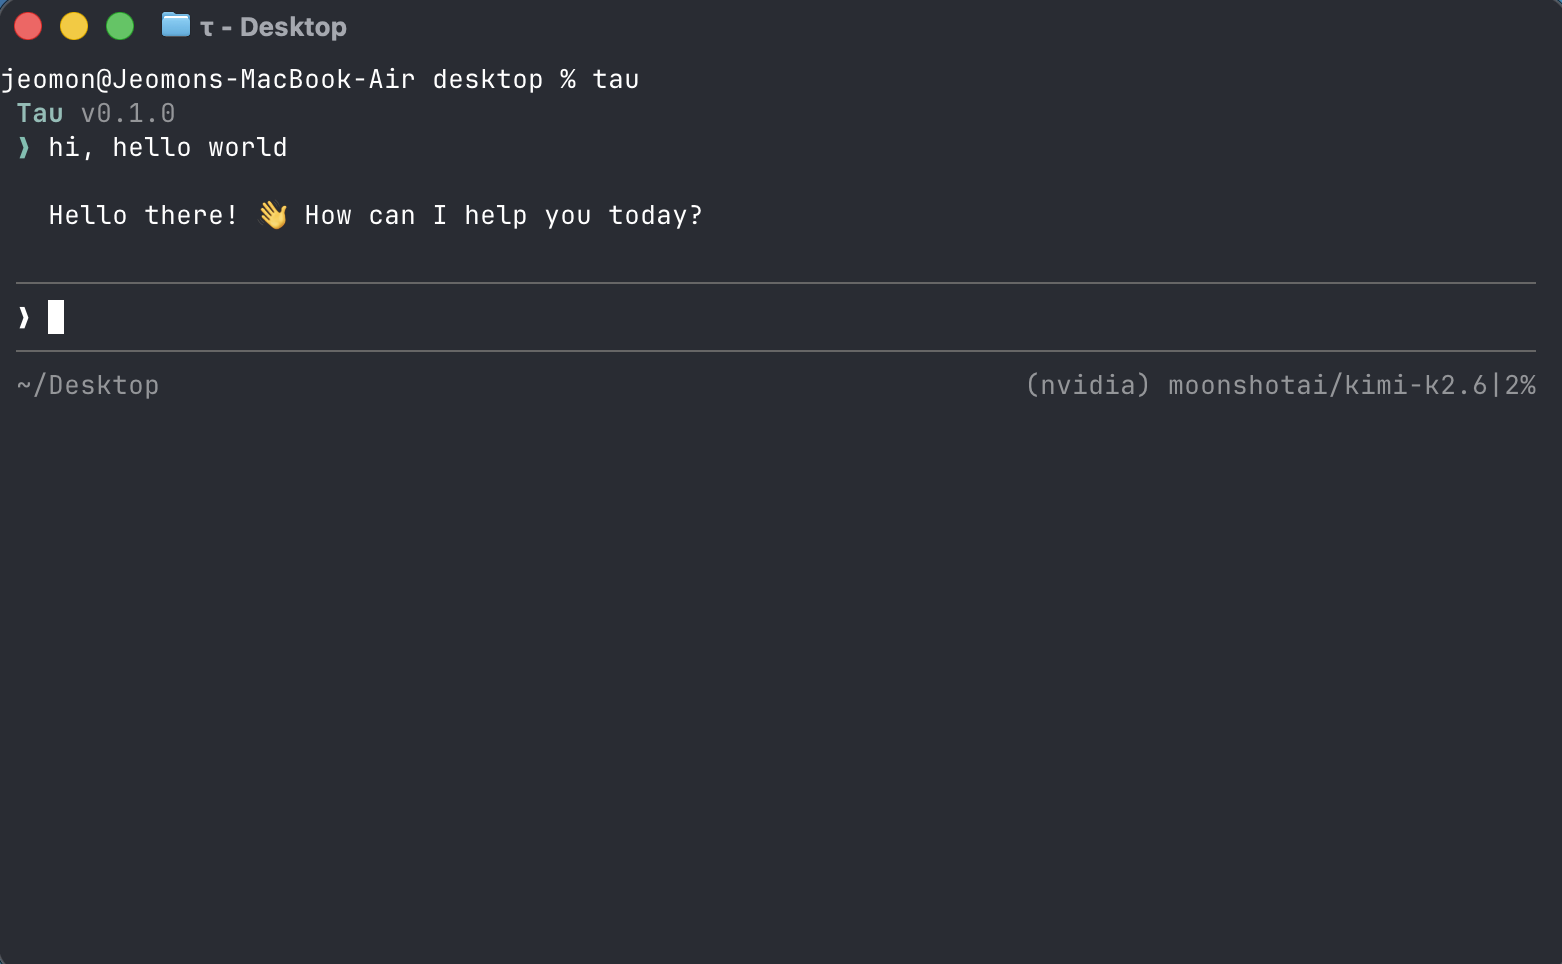
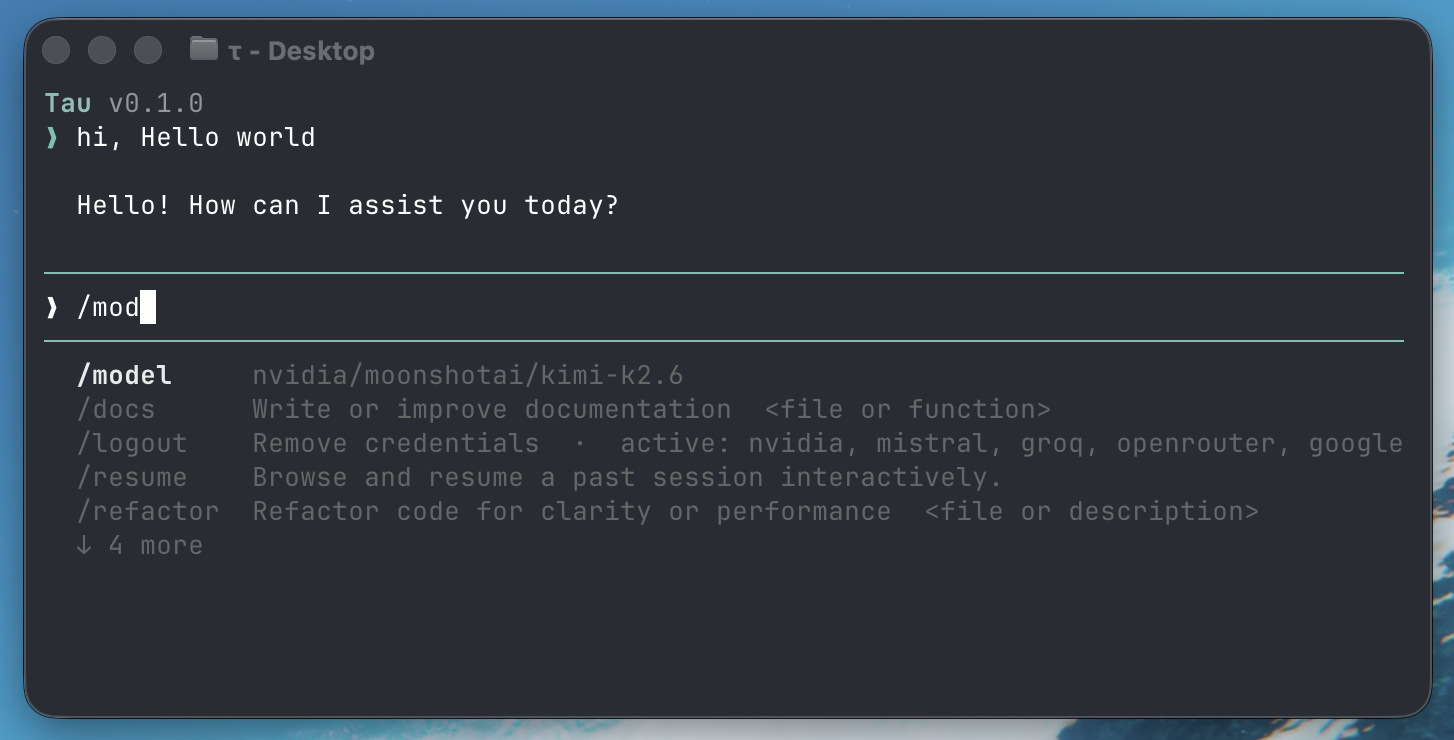
docs: update project name and branding assets in README and TUI screenshot

diff --git a/README.md b/README.md
@@ -1,6 +1,6 @@
-# τ Tau
+# Tau (τ)
 
-Inspired by [Pi](https://pi.dev), **τ Tau** brings the same agent framework capabilities to Python developers. A self-extensible agent CLI with a terminal UI, multi-provider LLM support, session management with branching, and a plugin system for tools, commands, and customization.
+Inspired by [Pi](https://pi.dev), **Tau** brings the same agent framework capabilities to Python developers. A self-extensible agent CLI with a terminal UI, multi-provider LLM support, session management with branching, and a plugin system for tools, commands, and customization.
 
 <p align="center">
   <img src="assets/tui.png" alt="Tau TUI" width="700">